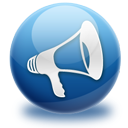
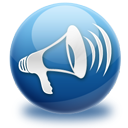
added chat button

Changed region(s): [[0.125, 0.1562, 0.9062, 0.7812]]

diff --git a/mainwindow.cpp b/mainwindow.cpp
@@ -25,6 +25,8 @@ CommAudio::CommAudio(QWidget *parent, Qt::WFlags flags)
             this, SLOT(onMulticastStateChanged(int)));
 
     multicastServer = ui.multicastCheckBox->isChecked();
+    chatting = false;
+    stickyChat = false;
 
     //TODO: move to settings
     if(!QDir("music").exists()) {
@@ -101,10 +103,23 @@ void CommAudio::onStartServerClicked() {
 }
 
 void CommAudio::onChatPressed() {
+    if (!stickyChat) {
+        chatting = true;
+        ui.chatPushButton->setIcon(QIcon(ICON_CHATTING));
+        return;
+    }
+
+    chatting = !chatting;
+    QString icon = (chatting) ? ICON_CHATTING : ICON_CHAT;
+    ui.chatPushButton->setIcon(QIcon(icon));
 }
 
 void CommAudio::onChatReleased() {
-}
+    if (!stickyChat) {
+        chatting = false;
+        ui.chatPushButton->setIcon(QIcon(ICON_CHAT));
+    }
+ }
 
 void CommAudio::onMulticastStateChanged(int state) {
     multicastServer = ui.multicastCheckBox->isChecked();

diff --git a/mainwindow.h b/mainwindow.h
@@ -29,6 +29,12 @@ private:
     /** Contains the songs that are on the user's local drive. */
     MusicLibrary userSongs;
 
+    /** True if the chat button should toggle chat. */
+    bool stickyChat;
+
+    /** True if currently chatting. */
+    bool chatting;
+
     /** The open TCP socket either for the control channel. */
     CommSocket* ctlSock;
 
